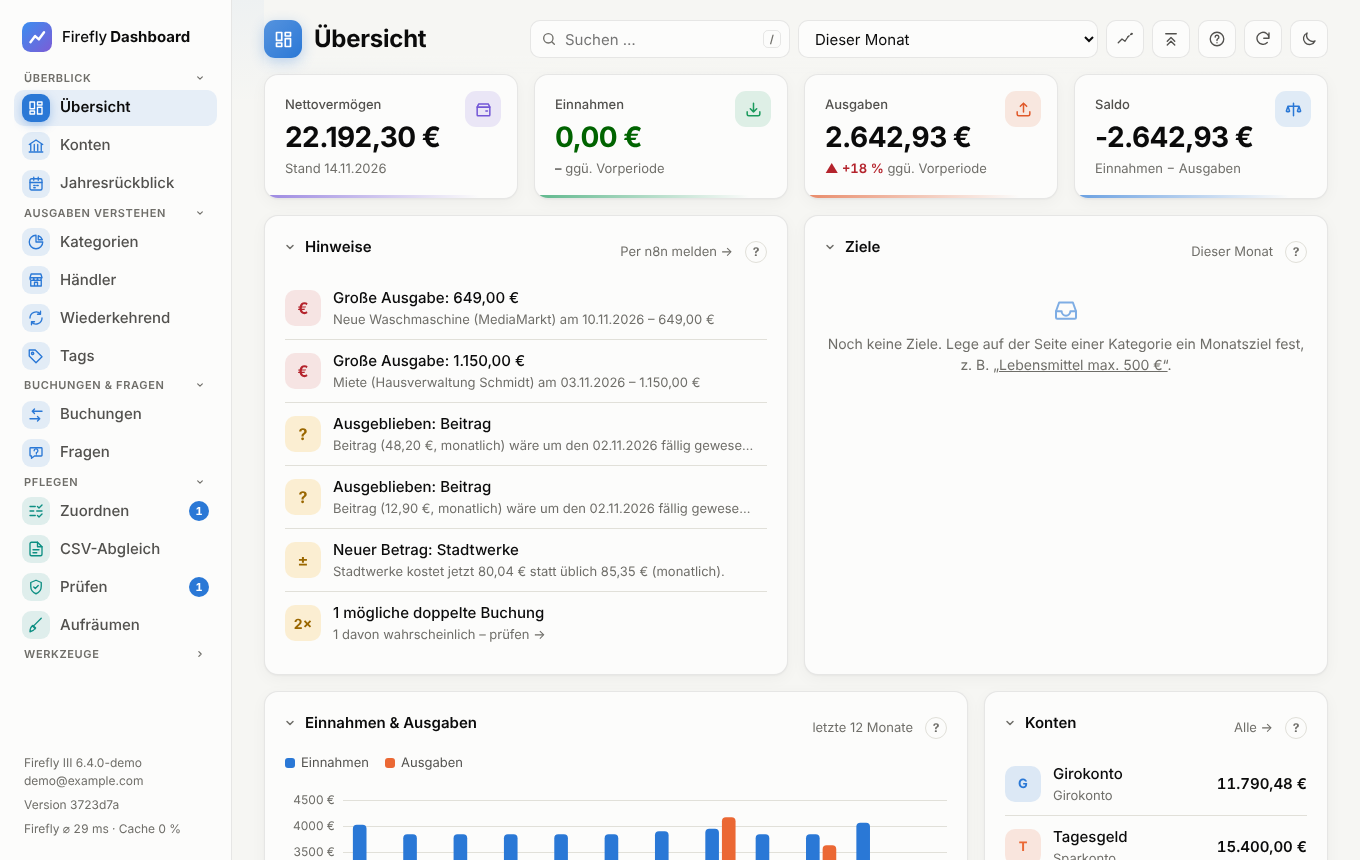
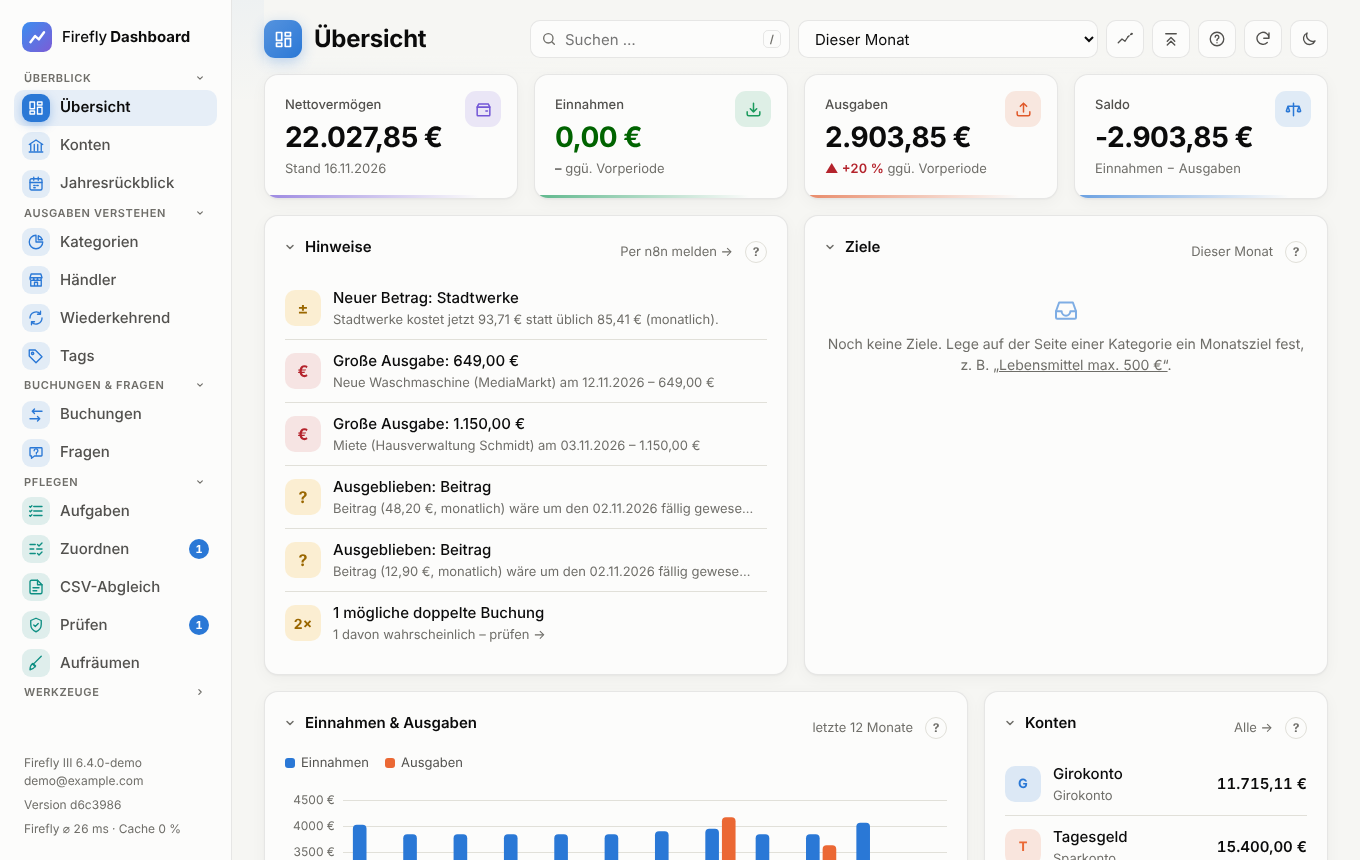
Neue Seite „Aufgaben“: offene Pflege-Punkte und alle Werkzeuge
Unter Pflegen ganz oben: was gerade zu tun ist, mit Anzahl und Sprung zur
Karte – Händler ohne Kategorie, ungeprüfte automatische Zuordnungen,
Zuordnungen nur im Dashboard, einzeln zugeordnete Buchungen, doppelte
Buchungen, überfällige Importe, falsch zugeordnete und ähnliche
Gegenkonten, Kündigungsfristen, laufende/angehaltene Übertragung.
Darunter alle Pflege-Werkzeuge nach Bereich, jeweils mit Sprung zur
Karte. Hilfe, README, Screenshot (neu: aufgaben.png), CLAUDE.md-Tabelle.

Claude-Session: https://claude.ai/code/session_017CCe4q4F121UhA8tHqTQzy

diff --git a/public/js/tasks.js b/public/js/tasks.js
@@ -1,0 +1,138 @@
+// Seite „Aufgaben“ (Pflegen): alles, was gerade zu tun ist, auf einen Blick – mit Anzahl und Sprung
+// zur passenden Karte – und darunter alle Pflege-Werkzeuge an einer Stelle. Rechnet mit denselben
+// Quellen wie die einzelnen Seiten (Zuordnen, Prüfen, Aufräumen, Wiederkehrend, CSV-Abgleich).
+
+import * as api from './api.js';
+import { esc } from './util.js';
+import { PAGES, CARDS } from './help.js';
+import { checkHints, loadHistory } from './check.js';
+import { wrongParties } from './partycore.js';
+import { mergeGroups } from './cleanupcore.js';
+import { counterpartyOf } from './rules.js';
+
+const lower = (s) => String(s ?? '').trim().toLowerCase();
+const json = (url) => fetch(url, { headers: { 'X-No-Cache': '1' } }).then((r) => (r.ok ? r.json() : null)).catch(() => null);
+const plural = (n, one, many) => `${n} ${n === 1 ? one : many}`;
+
+// Werkzeuge je Bereich: [Seite (Pfad), Hilfe-Schlüssel, Karten]
+const TOOLS = [
+  ['zuordnen', 'assign', ['z-open', 'z-auto', 'z-ff']],
+  ['aufraeumen', 'cleanup', ['a-wrong', 'a-merge', 'a-catmerge', 'a-import']],
+  ['pruefen', 'check', ['c-dup', 'c-import', 'c-excl', 'c-backup']],
+  ['abgleich', 'csvsync', ['s-archive', 's-files', 's-open', 's-import']],
+];
+const EXTRA_TOOLS = [
+  ['Buchungen in ein anderes Gegenkonto verschieben', '#/buchungen', 'Buchungen suchen, anhaken, unten „Empfänger / Gegenkonto“ – „Verschieben“.'],
+  ['Kategorie oder Tag für mehrere Buchungen setzen', '#/buchungen', 'Buchungen suchen, anhaken, unten „Kategorie …“ bzw. „Tag …“.'],
+  ['Händler aufteilen (z. B. Kfz- und Familienversicherung)', '#/zuordnen?karte=z-auto', 'Unter „Automatisch zugeordnet“ beim Händler „aufteilen“.'],
+];
+/** Kurzbeschreibung: ganzer Text, an einer Wortgrenze gekürzt (Sätze nicht an „z. B.“ abschneiden). */
+const firstSentence = (s) => {
+  const t = String(s || '').trim();
+  if (t.length <= 120) return t;
+  return `${t.slice(0, 120).replace(/\s+\S*$/, '')} …`;
+};
+
+export async function tasksPage(view) {
+  view.innerHTML = `
+    <div class="grid">
+      <section class="card span-12">
+        <div class="card-head"><h2>Offene Aufgaben</h2><span class="meta" id="t-meta">wird geprüft …</span></div>
+        <div class="list task-list" id="t-list"></div>
+      </section>
+      <section class="card span-12">
+        <div class="card-head"><h2>Alle Pflege-Werkzeuge</h2><span class="meta">Klick springt zur Karte</span></div>
+        <div class="tool-grid">${TOOLS.map(([path, help, cards]) => `<div class="tool-col"><h3><a href="#/${path}">${esc(PAGES[help].title)}</a></h3>
+          ${cards.filter((c) => CARDS[c]).map((c) => `<a class="tool" href="#/${path}?karte=${c}"><b>${esc(CARDS[c].title)}</b><span>${esc(firstSentence(CARDS[c].what))}</span></a>`).join('')}</div>`).join('')}
+          <div class="tool-col"><h3><a href="#/buchungen">Buchungen &amp; Zuordnen</a></h3>
+          ${EXTRA_TOOLS.map(([t, href, sub]) => `<a class="tool" href="${href}"><b>${esc(t)}</b><span>${esc(sub)}</span></a>`).join('')}</div>
+        </div>
+      </section>
+    </div>`;
+  const list = view.querySelector('#t-list');
+  const meta = view.querySelector('#t-meta');
+
+  // Jede Prüfung trägt sich ein, sobald sie fertig ist – langsame halten die anderen nicht auf
+  const rows = new Map(); // Schlüssel → { n, title, sub, href, prio, state }
+  const SLOTS = [
+    ['autocat', 'Zuordnen wird geprüft …'], ['check', 'Doppelte Buchungen und Importe werden geprüft …'],
+    ['cleanup', 'Gegenkonten werden geprüft …'], ['recurring', 'Kündigungsfristen werden geprüft …'], ['job', ''],
+  ];
+  let pending = SLOTS.length;
+  const set = (key, items) => {
+    items.forEach((x, i) => rows.set(`${key}${i}`, x));
+    pending -= 1;
+    render();
+  };
+  function render() {
+    if (!view.isConnected) return;
+    const open = [...rows.values()].filter((r) => r.n > 0).sort((a, b) => (a.prio ?? 5) - (b.prio ?? 5) || b.n - a.n);
+    const ok = [...rows.values()].filter((r) => !r.n && r.okText);
+    const total = open.reduce((a, r) => a + (r.count === false ? 0 : 1), 0);
+    meta.textContent = pending ? `wird geprüft … (${SLOTS.length - pending}/${SLOTS.length})` : total ? plural(total, 'offener Punkt', 'offene Punkte') : 'alles erledigt';
+    list.innerHTML = `${open.map((r) => `<a class="row task" href="${r.href}">
+        <div class="task-n ${r.warn ? 'warn' : ''}">${r.badge ?? r.n}</div>
+        <div style="min-width:0"><div class="title">${esc(r.title)}</div><div class="subtitle">${esc(r.sub || '')}</div></div>
+        <span class="task-go" aria-hidden="true">›</span></a>`).join('')}
+      ${pending ? `<div class="row task muted"><div class="task-n">…</div><div>${esc(SLOTS.filter(([k]) => ![...rows.keys()].some((x) => x.startsWith(k))).map(([, t]) => t).filter(Boolean)[0] || 'wird geprüft …')}</div></div>` : ''}
+      ${!pending && !open.length ? '<div class="empty">Nichts zu tun – alles gepflegt. 🎉</div>' : ''}
+      ${ok.length ? `<p class="muted task-ok">✓ ${ok.map((r) => esc(r.okText)).join(' · ')}</p>` : ''}`;
+  }
+  render();
+
+  // 1) Zuordnen
+  json('/local/autocat').then((d) => {
+    if (!d) return set('autocat', []);
+    const upToDate = (m) => m.ff?.sentAt && m.ff.category === (m.festKeep ? '' : (m.festKategorie || m.category)) && Boolean(m.ff.keep) === Boolean(m.festKeep)
+      && JSON.stringify(m.ff.split || []) === JSON.stringify(m.split || []);
+    const todo = d.automatisch.filter((m) => !m.fest && !m.nurEinzeln).length;
+    const vorgemerkt = d.automatisch.filter((m) => m.fest && m.cond && !m.gemischt && !upToDate(m)).length;
+    set('autocat', [
+      { n: d.offenAnzahl || 0, prio: 1, title: `${plural(d.offenAnzahl || 0, 'Händler', 'Händler')} ohne Kategorie`, sub: 'Zuordnen → Noch nicht zugeordnet', href: '#/zuordnen?karte=z-open', okText: 'Alle Händler haben eine Kategorie' },
+      { n: todo, prio: 2, title: `${plural(todo, 'automatische Zuordnung', 'automatische Zuordnungen')} prüfen`, sub: 'Zuordnen → Automatisch zugeordnet: „✓ Passt“, ändern oder aufteilen', href: '#/zuordnen?karte=z-auto' },
+      { n: vorgemerkt, prio: 3, title: `${plural(vorgemerkt, 'Zuordnung gilt', 'Zuordnungen gelten')} nur im Dashboard`, sub: 'Zuordnen → In Firefly übernehmen (als Regeln nach Firefly)', href: '#/zuordnen?karte=z-ff' },
+      { n: d.einzeln?.length || 0, prio: 3, title: `${plural(d.einzeln?.length || 0, 'einzeln zugeordnete Buchung', 'einzeln zugeordnete Buchungen')} noch nicht in Firefly`, sub: 'Zuordnen → In Firefly übernehmen → „In Firefly setzen“', href: '#/zuordnen?karte=z-ff' },
+    ]);
+  });
+
+  // 2) Prüfen (doppelte Buchungen, überfällige Importe) – dieselben Hinweise wie in der Übersicht
+  checkHints().then((hints) => set('check', hints.map((h) => ({
+    n: 1, badge: h.icon, prio: h.cls === 'hint-import' ? 1 : 2, warn: h.cls === 'hint-import', title: h.title, sub: `Prüfen → ${h.cls === 'hint-dup' ? 'Mögliche doppelte Buchungen' : 'Import-Status je Konto'}`,
+    href: `#/pruefen?karte=${h.cls === 'hint-dup' ? 'c-dup' : 'c-import'}`,
+  })).concat(hints.length ? [] : [{ n: 0, okText: 'Keine Dubletten, Importe aktuell' }]))).catch(() => set('check', []));
+
+  // 3) Aufräumen: falsch zugeordnete und ähnliche Gegenkonten (aus den Buchungen der letzten 24 Monate)
+  Promise.all([
+    loadHistory({ alle: true }),
+    api.loadDismissed(),
+    json('/local/cleanup/merge'),
+    Promise.all(['expense', 'revenue'].map((type) => api.getAll('accounts', { type }).then((l) => l.map((a) => ({ id: String(a.id), name: a.attributes?.name || '', type, iban: a.attributes?.iban || null }))).catch(() => []))),
+  ]).then(([txs, dismissed, plan, accLists]) => {
+    const wrong = wrongParties(txs, { dismissed: dismissed.parties || new Set() });
+    const nWrong = wrong.reduce((a, r) => a + r.wrongCount, 0);
+    const counts = new Map();
+    for (const t of txs) counts.set(lower(counterpartyOf(t)), (counts.get(lower(counterpartyOf(t))) || 0) + 1);
+    const groups = mergeGroups(accLists.flat(), counts).filter((g) => {
+      const p = plan?.groups?.[g.key] || {};
+      return !p.ignored && !p.done;
+    });
+    set('cleanup', [
+      { n: nWrong, prio: 2, warn: true, title: `${plural(nWrong, 'Buchung', 'Buchungen')} bei ${plural(wrong.length, 'falschem Gegenkonto', 'falschen Gegenkonten')}`, sub: `Aufräumen → Falsch zugeordnete Gegenkonten${wrong[0] ? ` (z. B. ${wrong[0].party})` : ''}`, href: '#/aufraeumen?karte=a-wrong', okText: 'Gegenkonten passen zu den Buchungstexten' },
+      { n: groups.length, prio: 4, title: `${plural(groups.length, 'Gruppe', 'Gruppen')} ähnlicher Gegenkonten`, sub: 'Aufräumen → Ähnliche Gegenkonten zusammenführen', href: '#/aufraeumen?karte=a-merge' },
+    ]);
+  }).catch(() => set('cleanup', []));
+
+  // 4) Kündigungsfristen
+  json('/local/alerts').then((d) => {
+    const fr = (d?.alerts || []).filter((a) => a.art === 'kuendigungsfrist');
+    set('recurring', [{ n: fr.length, prio: 0, warn: true, title: `${plural(fr.length, 'Kündigungsfrist', 'Kündigungsfristen')} in den nächsten 30 Tagen`, sub: fr[0]?.text || 'Wiederkehrend → Verträge & Kündigungsfristen', href: '#/wiederkehrend?karte=r-contracts', okText: 'Keine Kündigungsfrist in den nächsten 30 Tagen' }]);
+  });
+
+  // 5) Auftrag auf dem Server (CSV-Abgleich, Gegenkonten korrigieren)
+  json('/local/syncjob').then((d) => {
+    const j = d?.job;
+    const live = j && ['laeuft', 'pausiert'].includes(j.status);
+    set('job', live ? [{ n: 1, badge: j.status === 'laeuft' ? '⏳' : '⏸', prio: j.status === 'pausiert' ? 0 : 5, warn: j.status === 'pausiert', count: j.status === 'pausiert',
+      title: j.status === 'laeuft' ? `Übertragung läuft: ${j.ok} von ${j.total}` : 'Übertragung angehalten', sub: j.message || 'CSV-Abgleich → Übertragung auf dem Server', href: '#/abgleich?karte=s-job' }] : []);
+  });
+}

diff --git a/public/index.html b/public/index.html
@@ -60,6 +60,7 @@
         <div class="nav-sec" data-sec="pflegen">
           <button type="button" class="nav-group" aria-expanded="true"><span>Pflegen</span><svg viewBox="0 0 24 24" aria-hidden="true"><path d="m8 10 4 4 4-4"/></svg></button>
           <div class="nav-items">
+            <a href="#/aufgaben" data-route="tasks"><svg viewBox="0 0 24 24"><path d="M9 6h11M9 12h11M9 18h11"/><path d="m3.5 6 1 1 2-2M3.5 12l1 1 2-2M3.5 18l1 1 2-2"/></svg><span>Aufgaben</span><b class="nav-badge" data-badge="tasks" hidden></b></a>
             <a href="#/zuordnen" data-route="assign"><svg viewBox="0 0 24 24"><path d="M4 6h7M4 12h5M4 18h7M14 6l2 2 4-4M14 18l2 2 4-4M13 12h7"/></svg><span>Zuordnen</span><b class="nav-badge" data-badge="assign" hidden></b></a>
             <a href="#/abgleich" data-route="csvsync"><svg viewBox="0 0 24 24"><path d="M14 3H6a2 2 0 0 0-2 2v14a2 2 0 0 0 2 2h12a2 2 0 0 0 2-2V9z"/><path d="M14 3v6h6M8 13h8M8 17h5"/></svg><span>CSV-Abgleich</span></a>
             <a href="#/pruefen" data-route="check"><svg viewBox="0 0 24 24"><path d="M9 12l2 2 4-4"/><path d="M12 3l7 3v5c0 4.5-3 8.5-7 10-4-1.5-7-5.5-7-10V6z"/></svg><span>Prüfen</span><b class="nav-badge" data-badge="check" hidden></b></a>
@@ -85,7 +86,7 @@
         <div class="topbar-actions">
           <div class="search" role="search">
             <svg viewBox="0 0 24 24" aria-hidden="true"><circle cx="11" cy="11" r="7"/><path d="m20 20-3.5-3.5"/></svg>
-            <input id="global-search" type="search" placeholder="Suchen … (auch Funktionen)" autocomplete="off" aria-label="Funktionen, Kategorien, Konten und Buchungen suchen" aria-controls="search-results" aria-expanded="false">
+            <input id="global-search" type="search" placeholder="Suchen …" title="Sucht auch Funktionen, z. B. „zusammenführen“" autocomplete="off" aria-label="Funktionen, Kategorien, Konten und Buchungen suchen" aria-controls="search-results" aria-expanded="false">
             <kbd>/</kbd>
             <div class="search-results" id="search-results" role="listbox" hidden></div>
           </div>

diff --git a/public/js/app.js b/public/js/app.js
@@ -17,6 +17,7 @@ import { merchants } from './merchants.js';
 import { askPage } from './ask.js';
 import { partyDetail } from './party.js';
 import { assignPage } from './zuordnen.js';
+import { tasksPage } from './tasks.js';
 import { initNav, navRendered, resetSheet } from './nav.js';
 import { openHelp, helpPage } from './helpui.js';
 import { PAGES, CARDS, pageOfCard } from './help.js';
@@ -34,6 +35,7 @@ const ROUTES = {
   automationen: { view: actions, title: 'Automationen', nav: 'actions', help: 'actions' },
   jahr: { view: yearReview, title: 'Jahresrückblick', nav: 'year', noPeriod: true, help: 'year' },
   labor: { view: lab, title: 'Kategorien-Labor', nav: 'lab', noPeriod: true, help: 'lab' },
+  aufgaben: { view: tasksPage, title: 'Aufgaben', nav: 'tasks', noPeriod: true, help: 'tasks' },
   zuordnen: { view: assignPage, title: 'Kategorien zuordnen', nav: 'assign', noPeriod: true, help: 'assign' },
   pruefen: { view: check, title: 'Prüfen', nav: 'check', noPeriod: true, help: 'check' },
   abgleich: { view: csvSync, title: 'CSV-Abgleich', nav: 'csvsync', noPeriod: true, help: 'csvsync' },
@@ -54,7 +56,7 @@ const titleEl = document.getElementById('page-title');
 // Bereiche mit eigener Farbe: Auswerten (blau), Daten pflegen (türkis), Labor (violett), Einstellungen (grau)
 const AREA = {
   overview: 'auswerten', categories: 'auswerten', tags: 'auswerten', merchants: 'auswerten', recurring: 'auswerten', transactions: 'auswerten',
-  accounts: 'auswerten', year: 'auswerten', ask: 'auswerten', assign: 'pflegen', check: 'pflegen', csvsync: 'pflegen', cleanup: 'pflegen', lab: 'labor', actions: 'system', help: 'system',
+  accounts: 'auswerten', year: 'auswerten', ask: 'auswerten', assign: 'pflegen', tasks: 'pflegen', check: 'pflegen', csvsync: 'pflegen', cleanup: 'pflegen', lab: 'labor', actions: 'system', help: 'system',
 };
 document.querySelectorAll('.nav a[data-route]').forEach((a) => (a.dataset.area = AREA[a.dataset.route] || 'auswerten'));
 const periodSelect = document.getElementById('period-select');

diff --git a/public/styles.css b/public/styles.css
@@ -1617,3 +1617,19 @@ button.nav-group svg { width: 14px; height: 14px; fill: none; stroke: currentCol
   .search-results { position: fixed; top: 64px; left: 16px; right: 16px; width: auto; max-height: 65vh; }
   .sr-item { flex-wrap: wrap; gap: 2px 12px; }
 }
+
+/* Aufgaben */
+.task-list .row.task { display: grid; grid-template-columns: auto minmax(0, 1fr) auto; gap: 12px; align-items: center; text-decoration: none; color: inherit; }
+.task-list a.row.task:hover { background: var(--accent-soft); }
+.task-n { min-width: 40px; height: 40px; padding: 0 8px; border-radius: 12px; display: grid; place-items: center; font-weight: 700; background: var(--accent-soft); color: var(--accent); }
+.task-n.warn { background: color-mix(in srgb, var(--status-warning) 22%, transparent); color: var(--text-primary); }
+.task-go { font-size: 22px; color: var(--text-muted); }
+.task-ok { margin: 10px 0 0; font-size: 13px; }
+.tool-grid { display: grid; grid-template-columns: repeat(auto-fill, minmax(240px, 1fr)); gap: 16px 20px; }
+.tool-col h3 { margin: 0 0 6px; font-size: 13px; text-transform: uppercase; letter-spacing: 0.05em; }
+.tool-col h3 a { color: var(--text-muted); text-decoration: none; }
+.tool { display: block; padding: 8px 10px; margin: 0 -10px; border-radius: 8px; text-decoration: none; color: inherit; }
+.tool:hover { background: var(--accent-soft); }
+.tool b { display: block; font-size: 14px; }
+.tool span { display: block; font-size: 12px; color: var(--text-secondary); line-height: 1.35; }
+.task-list .row.task .title, .task-list .row.task .subtitle { white-space: normal; overflow: visible; text-overflow: clip; overflow-wrap: anywhere; }

diff --git a/public/js/help.js b/public/js/help.js
@@ -67,6 +67,14 @@ export const PAGES = {
     firefly: READ_ONLY,
     cards: ['p-months', 'p-years', 'p-cats', 'p-tx'],
   },
+  tasks: {
+    title: 'Aufgaben',
+    what: 'Alles, was beim Pflegen der Daten gerade zu tun ist – auf einen Blick, mit Anzahl und Sprung zur passenden Karte. Darunter alle Pflege-Werkzeuge an einer Stelle.',
+    app: 'Geprüft werden: Händler ohne Kategorie und ungeprüfte automatische Zuordnungen, Zuordnungen, die erst im Dashboard gelten, doppelte Buchungen und überfällige Importe, falsch zugeordnete und ähnliche Gegenkonten, Kündigungsfristen der nächsten 30 Tage und eine laufende Übertragung auf dem Server. Wichtiges (Fristen, angehaltene Übertragung, Importe) steht oben.',
+    firefly: READ_ONLY,
+    tips: ['Was hier fehlt, findet die Suche oben – sie kennt auch alle Funktionen (z. B. „zusammenführen“).'],
+    cards: [],
+  },
   assign: {
     title: 'Kategorien zuordnen',
     what: 'Buchungen ohne Kategorie in Firefly bekommen im Dashboard automatisch eine – aus dem Händler abgeleitet. So laufen z. B. Netto, Aldi und Lidl unter „Lebensmittel“ zusammen.',

diff --git a/public/sw.js b/public/sw.js
@@ -1,7 +1,7 @@
 // Service Worker: App sofort starten (auch offline) und zuletzt geladene
 // Daten zeigen, wenn der Server nicht erreichbar ist.
 
-const VERSION = 'ffd-86';
+const VERSION = 'ffd-88';
 const SHELL = `${VERSION}-shell`;
 const DATA = `${VERSION}-data`;
 const MAX_DATA_ENTRIES = 400;

diff --git a/README.md b/README.md
@@ -28,10 +28,16 @@ als frischere Alternative zur Standardoberfläche, wenn du deine Finanzen einfac
 
 <p align="center"><img src="docs/screenshots/zuordnen.png" width="720" alt="Zuordnen: automatische Kategorien aus Händlern – Abdeckung, offene Händler, Zuordnungen"><br><b>Zuordnen</b> – Kategorien automatisch aus den Händlern (Netto, Aldi, Lidl → Lebensmittel)</p>
 
+<p align="center"><img src="docs/screenshots/aufgaben.png" width="720" alt="Aufgaben: offene Pflege-Punkte mit Anzahl und alle Werkzeuge"><br><b>Aufgaben</b> – was gerade zu tun ist, mit Sprung zur passenden Stelle</p>
+
 <p align="center"><img src="docs/screenshots/handy.png" width="600" alt="Am Handy: Übersicht hell und Labor dunkel"><br><b>Am Handy</b> – hell und dunkel, installierbar als App</p>
 
 <sub>Alle Bilder zeigen die Demo-Daten (<code>npm run demo</code>), keine echten Finanzen.</sub>
 
+- **Aufgaben** (Pflegen) – alles, was gerade zu tun ist, auf einen Blick: Händler ohne Kategorie,
+  ungeprüfte automatische Zuordnungen, Zuordnungen nur im Dashboard, doppelte Buchungen, überfällige
+  Importe, falsch zugeordnete und ähnliche Gegenkonten, Kündigungsfristen, laufende Übertragung – mit
+  Anzahl und Sprung zur Karte; darunter alle Pflege-Werkzeuge an einer Stelle
 - **Suche oben** (Taste `/` oder Strg+K) – findet auch **Funktionen**: „zusammenführen“, „verschieben“,
   „Kündigungsfrist“, „aufteilen“ … springt direkt zur passenden Karte (aufgeklappt und hervorgehoben);
   dazu Kategorien, Tags, Empfänger, Konten und Volltext in den Buchungen

diff --git a/CLAUDE.md b/CLAUDE.md
@@ -28,6 +28,7 @@ committet wird.
 | `labor-ki.png` | Labor, Reiter „KI“ (Vorschläge prüfen) |
 | `csv-abgleich.png` | CSV-Abgleich (Archiv) |
 | `zuordnen.png` | Zuordnen (automatische Kategorien) |
+| `aufgaben.png` | Aufgaben (offene Pflege-Punkte, alle Werkzeuge) |
 | `aufraeumen.png` | Daten aufräumen (Gegenkonten zusammenführen) |
 | `handy.png` | Handy: Übersicht hell, Labor dunkel |
 
